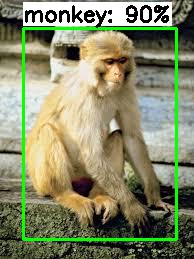
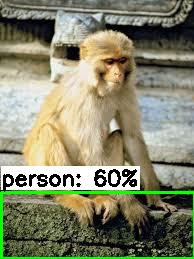
code cleanup, example errors fixed of library changes

Changed region(s): [[0.0, 0.0, 1.0, 1.0]]

diff --git a/src/category.py b/src/category.py
@@ -1,98 +1,7 @@
-coco_category_index = {
-    1: {"id": 1, "name": "person"},
-    2: {"id": 2, "name": "bicycle"},
-    3: {"id": 3, "name": "car"},
-    4: {"id": 4, "name": "motorcycle"},
-    5: {"id": 5, "name": "airplane"},
-    6: {"id": 6, "name": "bus"},
-    7: {"id": 7, "name": "train"},
-    8: {"id": 8, "name": "truck"},
-    9: {"id": 9, "name": "boat"},
-    10: {"id": 10, "name": "traffic light"},
-    11: {"id": 11, "name": "fire hydrant"},
-    13: {"id": 13, "name": "stop sign"},
-    14: {"id": 14, "name": "parking meter"},
-    15: {"id": 15, "name": "bench"},
-    16: {"id": 16, "name": "bird"},
-    17: {"id": 17, "name": "cat"},
-    18: {"id": 18, "name": "dog"},
-    19: {"id": 19, "name": "horse"},
-    20: {"id": 20, "name": "sheep"},
-    21: {"id": 21, "name": "cow"},
-    22: {"id": 22, "name": "elephant"},
-    23: {"id": 23, "name": "bear"},
-    24: {"id": 24, "name": "zebra"},
-    25: {"id": 25, "name": "giraffe"},
-    27: {"id": 27, "name": "backpack"},
-    28: {"id": 28, "name": "umbrella"},
-    31: {"id": 31, "name": "handbag"},
-    32: {"id": 32, "name": "tie"},
-    33: {"id": 33, "name": "suitcase"},
-    34: {"id": 34, "name": "frisbee"},
-    35: {"id": 35, "name": "skis"},
-    36: {"id": 36, "name": "snowboard"},
-    37: {"id": 37, "name": "sports ball"},
-    38: {"id": 38, "name": "kite"},
-    39: {"id": 39, "name": "baseball bat"},
-    40: {"id": 40, "name": "baseball glove"},
-    41: {"id": 41, "name": "skateboard"},
-    42: {"id": 42, "name": "surfboard"},
-    43: {"id": 43, "name": "tennis racket"},
-    44: {"id": 44, "name": "bottle"},
-    46: {"id": 46, "name": "wine glass"},
-    47: {"id": 47, "name": "cup"},
-    48: {"id": 48, "name": "fork"},
-    49: {"id": 49, "name": "knife"},
-    50: {"id": 50, "name": "spoon"},
-    51: {"id": 51, "name": "bowl"},
-    52: {"id": 52, "name": "banana"},
-    53: {"id": 53, "name": "apple"},
-    54: {"id": 54, "name": "sandwich"},
-    55: {"id": 55, "name": "orange"},
-    56: {"id": 56, "name": "broccoli"},
-    57: {"id": 57, "name": "carrot"},
-    58: {"id": 58, "name": "hot dog"},
-    59: {"id": 59, "name": "pizza"},
-    60: {"id": 60, "name": "donut"},
-    61: {"id": 61, "name": "cake"},
-    62: {"id": 62, "name": "chair"},
-    63: {"id": 63, "name": "couch"},
-    64: {"id": 64, "name": "potted plant"},
-    65: {"id": 65, "name": "bed"},
-    67: {"id": 67, "name": "dining table"},
-    70: {"id": 70, "name": "toilet"},
-    72: {"id": 72, "name": "tv"},
-    73: {"id": 73, "name": "laptop"},
-    74: {"id": 74, "name": "mouse"},
-    75: {"id": 75, "name": "remote"},
-    76: {"id": 76, "name": "keyboard"},
-    77: {"id": 77, "name": "cell phone"},
-    78: {"id": 78, "name": "microwave"},
-    79: {"id": 79, "name": "oven"},
-    80: {"id": 80, "name": "toaster"},
-    81: {"id": 81, "name": "sink"},
-    82: {"id": 82, "name": "refrigerator"},
-    84: {"id": 84, "name": "book"},
-    85: {"id": 85, "name": "clock"},
-    86: {"id": 86, "name": "vase"},
-    87: {"id": 87, "name": "scissors"},
-    88: {"id": 88, "name": "teddy bear"},
-    89: {"id": 89, "name": "hair drier"},
-    90: {"id": 90, "name": "toothbrush"},
-}
-
-security_cam_category_index = {
-    1: {"id": 1, "name": "cat"},
-    2: {"id": 2, "name": "dog"},
-    3: {"id": 3, "name": "monkey"},
-    4: {"id": 4, "name": "person"},
-}
-
-
 def read_label_pbtxt(label_path: str) -> dict:
     with open(label_path, "r") as label_file:
         lines = label_file.readlines()
         labels = {}
         for row, content in enumerate(lines):
-            labels[row + 1] = {"id": row + 1, "name": content.strip()}
+            labels[row] = {"id": row, "name": content.strip()}
     return labels

diff --git a/examples/detect_ipcam.py b/examples/detect_ipcam.py
@@ -3,11 +3,11 @@ import time
 import cv2
 import tensorflow as tf
 import numpy as np
-from object_detection.utils import visualization_utils
-from utils.category import theft_category_index
+from src.category import read_label_pbtxt
+from src.utils import draw_boxes
 from absl import app, flags, logging
 from absl.flags import FLAGS
-from utils.utility import VideoStream
+from src.utility import VideoStream
 
 flags.DEFINE_string("model", None, "path to model inference graph")
 flags.DEFINE_string("output", "data/outputs/ipcam_output.avi", "path to output video")
@@ -20,14 +20,13 @@ flags.DEFINE_string("password", None, "Password to access camera stream")
 def main(_argv):
     flags.mark_flag_as_required("model")
     flags.mark_flag_as_required("ip")
+    flags.mark_flag_as_required("labels")
+
+    labels = read_label_pbtxt(FLAGS.labels)
 
     stream_url = f"rtsp://{FLAGS.ip}:{FLAGS.port}/h264_ulaw.sdp"
     if FLAGS.username and FLAGS.password:
         stream_url = f"rtsp://{FLAGS.username}:{FLAGS.password}@{FLAGS.ip}:{FLAGS.port}/h264_ulaw.sdp"
-
-    physical_devices = tf.config.experimental.list_physical_devices("GPU")
-    for physical_device in physical_devices:
-        tf.config.experimental.set_memory_growth(physical_device, True)
 
     start_time = time.time()
     model = tf.saved_model.load(FLAGS.model)
@@ -55,16 +54,15 @@ def main(_argv):
         classes = detections["detection_classes"][0].numpy().astype(np.int32)
         scores = detections["detection_scores"][0].numpy()
 
-        output_image = visualization_utils.visualize_boxes_and_labels_on_image_array(
+        output_image = draw_boxes(
             img.copy(),
             boxes,
             classes,
             scores,
-            theft_category_index,
-            use_normalized_coordinates=True,
-            max_boxes_to_draw=200,
-            min_score_thresh=0.6,
-            agnostic_mode=False,
+            labels,
+            height,
+            width,
+            min_threshold=FLAGS.threshold,
         )
         cv2.imshow("Object Detection", cv2.resize(output_image, (800, 600)))
         if out:

diff --git a/examples/detect_image.py b/examples/detect_image.py
@@ -2,15 +2,16 @@ import __load_modules  # noqa
 import time
 import tensorflow as tf
 import numpy as np
-from PIL import Image
+import cv2
 from absl import app, flags, logging
 from absl.flags import FLAGS
 from src.utils import draw_boxes
-from src.category import theft_category_index
-from src.utils import load_image
+from src.category import read_label_pbtxt
+from src.utils import load_image, preprocess_input
 
 flags.DEFINE_string("model", None, "path to model inference graph")
 flags.DEFINE_string("image", None, "path to input image")
+flags.DEFINE_string("labels", None, "path to labels.txt file with detection classes")
 flags.DEFINE_string(
     "output", "data/outputs/detection_output.jpg", "path to output image"
 )
@@ -20,6 +21,9 @@ flags.DEFINE_float("threshold", 0.5, "detection threshold")
 def main(_argv):
     flags.mark_flag_as_required("model")
     flags.mark_flag_as_required("image")
+    flags.mark_flag_as_required("labels")
+
+    labels = read_label_pbtxt(FLAGS.labels)
 
     start_time = time.time()
     tf.keras.backend.clear_session()
@@ -30,6 +34,7 @@ def main(_argv):
 
     image_np = load_image(FLAGS.image)
     image_tensor = np.expand_dims(image_np, axis=0)
+    image_tensor = preprocess_input(image_tensor)
     height, width, _ = image_np.shape
     start_time = time.time()
     detections = model(image_tensor)
@@ -44,15 +49,16 @@ def main(_argv):
         boxes,
         classes,
         scores,
-        theft_category_index,
+        labels,
         height,
         width,
         min_threshold=FLAGS.threshold,
     )
 
-    output = Image.fromarray(output_image)
-    output.save(FLAGS.output)
-    output.show()
+    output_image = cv2.cvtColor(output_image, cv2.COLOR_BGR2RGB)
+    cv2.imwrite(FLAGS.output, output_image)
+    cv2.imshow("Object Detection", output_image)
+    cv2.waitKey(0)
     logging.info(f"Elapsed time: {str(end_time - start_time)}sec")
 
 

diff --git a/examples/detect_cam.py b/examples/detect_cam.py
@@ -3,12 +3,13 @@ import time
 import cv2
 import tensorflow as tf
 import numpy as np
-from utils.utility import draw_boxes
-from utils.category import theft_category_index
+from src.utils import draw_boxes
+from src.category import read_label_pbtxt
 from absl import app, flags, logging
 from absl.flags import FLAGS
 
 flags.DEFINE_string("model", None, "path to model inference graph")
+flags.DEFINE_string("labels", None, "path to labels.txt file with detection classes")
 flags.DEFINE_string("output", "data/outputs/cam_output.avi", "path to output video")
 flags.DEFINE_integer("cam", 0, "camera number or id to access")
 flags.DEFINE_float("threshold", 0.5, "detection threshold")
@@ -16,10 +17,9 @@ flags.DEFINE_float("threshold", 0.5, "detection threshold")
 
 def main(_argv):
     flags.mark_flag_as_required("model")
+    flags.mark_flag_as_required("labels")
 
-    physical_devices = tf.config.experimental.list_physical_devices("GPU")
-    for physical_device in physical_devices:
-        tf.config.experimental.set_memory_growth(physical_device, True)
+    labels = read_label_pbtxt(FLAGS.labels)
 
     start_time = time.time()
     model = tf.saved_model.load(FLAGS.model)
@@ -52,7 +52,7 @@ def main(_argv):
             boxes,
             classes,
             scores,
-            theft_category_index,
+            labels,
             height,
             width,
             min_threshold=FLAGS.threshold,

diff --git a/examples/detect_video.py b/examples/detect_video.py
@@ -3,13 +3,14 @@ import time
 import cv2
 import tensorflow as tf
 import numpy as np
-from utils.utility import draw_boxes
-from utils.category import theft_category_index
+from src.utils import draw_boxes
+from src.category import read_label_pbtxt
 from absl import app, flags, logging
 from absl.flags import FLAGS
 
 flags.DEFINE_string("model", None, "path to model inference graph")
 flags.DEFINE_string("video", None, "path to input video")
+flags.DEFINE_string("labels", None, "path to labels.txt file with detection classes")
 flags.DEFINE_string("output", "data/outputs/video_output.avi", "path to output video")
 flags.DEFINE_float("threshold", 0.5, "detection threshold")
 
@@ -17,6 +18,9 @@ flags.DEFINE_float("threshold", 0.5, "detection threshold")
 def main(_argv):
     flags.mark_flag_as_required("model")
     flags.mark_flag_as_required("video")
+    flags.mark_flag_as_required("labels")
+
+    labels = read_label_pbtxt(FLAGS.labels)
 
     start_time = time.time()
     model = tf.saved_model.load(FLAGS.model)
@@ -55,7 +59,7 @@ def main(_argv):
             boxes,
             classes,
             scores,
-            theft_category_index,
+            labels,
             height,
             width,
             min_threshold=FLAGS.threshold,

diff --git a/app.py b/app.py
@@ -48,6 +48,7 @@ def main(_argv):
     record_path = args.get("recording_save_path")
     recipients = args.get("send_mail_to")
     neglect_categories = args.get("neglect_categories")
+    tf.keras.backend.clear_session()
     model = tf.saved_model.load(args.get("model"))
     logging.info("...model loaded...")
 

diff --git a/src/utils.py b/src/utils.py
@@ -72,7 +72,6 @@ def preprocess_input(image: np.array) -> np.array:
         np.array: preprocesses image as numpy array
     """
     processed = (2.0 / 255.0) * image - 1.0
-    processed = np.expand_dims(processed, axis=0)
     return processed.astype(np.float32)
 
 

diff --git a/src/parse_args.py b/src/parse_args.py
@@ -1,6 +1,6 @@
 import json
 from absl.flags import FLAGS
-from category import read_label_pbtxt
+from src.category import read_label_pbtxt
 
 
 def get_security_cam_arguments(flag: FLAGS) -> tuple:

diff --git a/README.md b/README.md
@@ -6,7 +6,7 @@ Security camera application powered by AI. It uses live video stream from camera
 
 ### System
 
-System requirements depends on complexity or size of object detection model, larger model will require more compute power and will be good at detection. I have used this in a raspberry pi 3b with a pi camera using mobilenet backbone and it gave around 1-2 fps. For final implementation tflite model was used with pi which boost fps of application. With my Nvidia Geforce 940 MX GPU based system it is giving around 30 fps with mobilenet backbone. So here is tradeoff between compute power and accuracy.
+System requirements depends on complexity or size of object detection model, larger model will require more compute power and will be good at detection. I have used this in a raspberry pi 3b with a pi camera using mobilenet backbone and it gave around 1-2 fps. For final implementation tflite model was used with pi which boost fps of application. With my Nvidia Geforce 940 MX GPU based system it is giving around 20-30 fps with mobilenet backbone. So here is tradeoff between compute power and accuracy.
 
 ### Python 3
 
